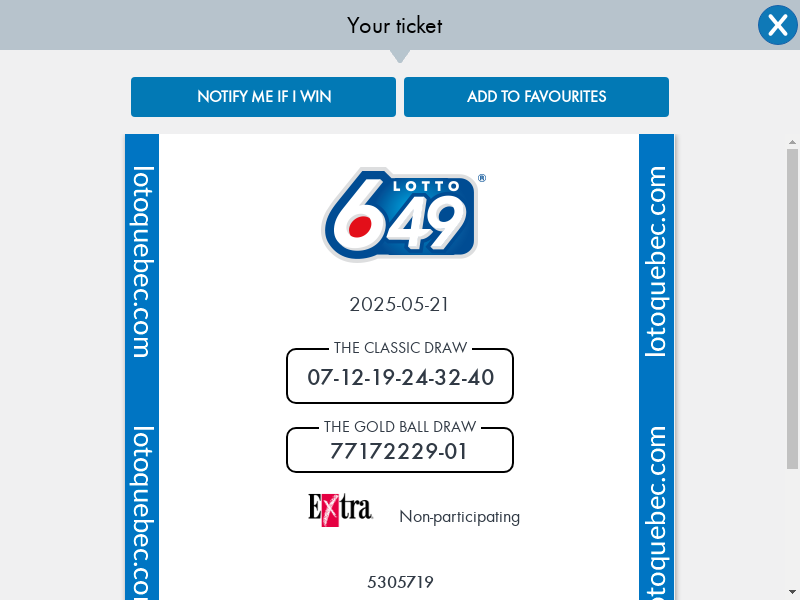
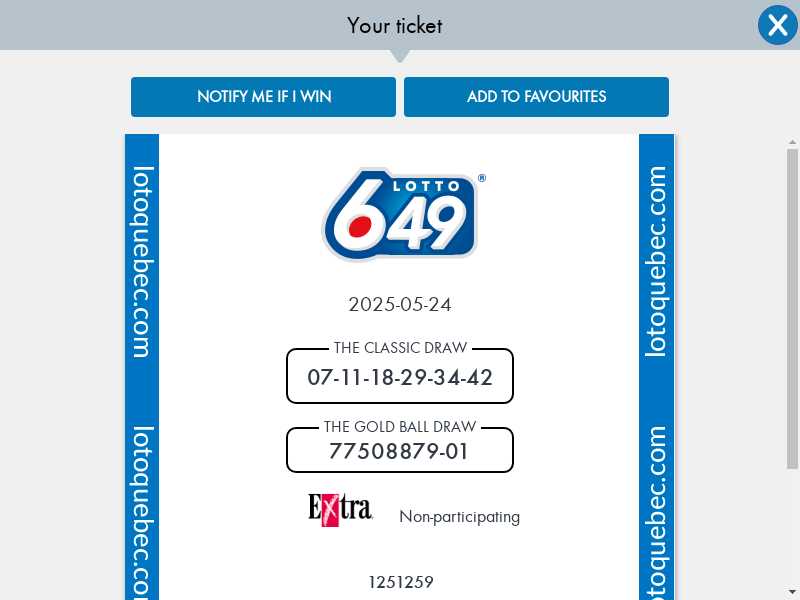
auto commit

diff --git a/docs/index.html b/docs/index.html
@@ -76,7 +76,14 @@
             </tr>
             </thead>
             <tbody>
-            <tr><td>2025-05-17</td><td>07-12-19-24-32-40</td><td>empty</td><td>{
+            <tr><td>2025-05-21</td><td>07-11-18-29-34-42</td><td>empty</td><td>{
+  "generate_nums": ["07", "11", "18", "29", "34", "42"]
+}</td></tr>
+<tr><td>2025-05-17</td><td>07-12-19-24-32-40</td><td>match 1 number, win number: The Classic Draw
+
+
+01-02-37-38-43-46 Bonus (B):
+(40)</td><td>{
   "generate_nums": ["07", "12", "19", "24", "32", "40"]
 }</td></tr>
 <tr><td>2025-05-14</td><td>07-16-25-30-41-44</td><td>match 1 number, win number: The Classic Draw
